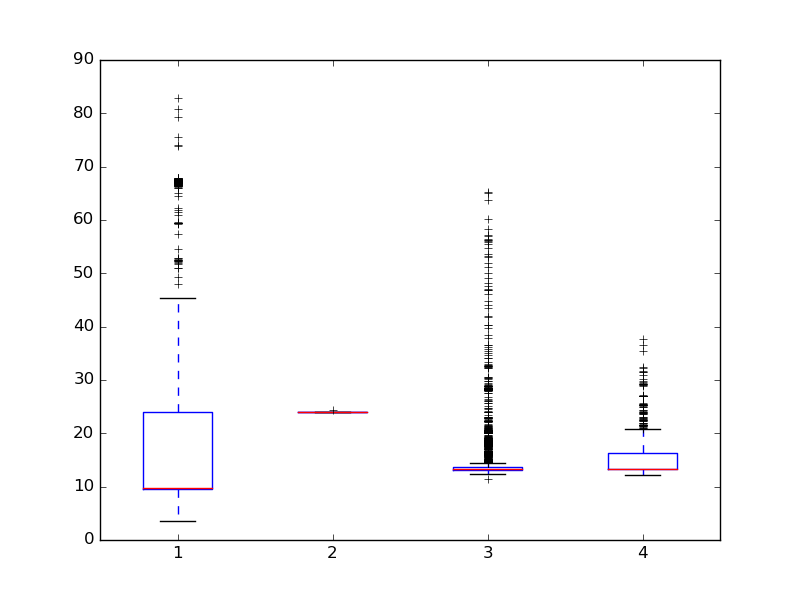
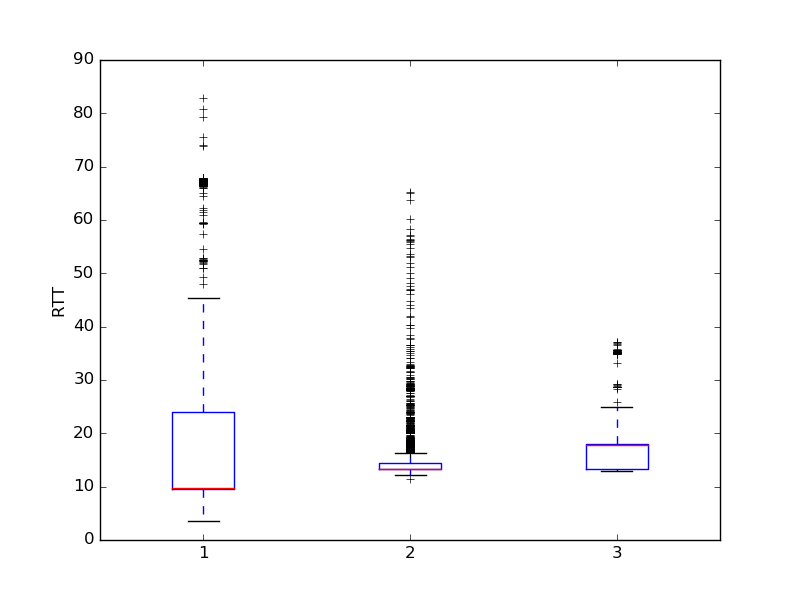
Bugfix

diff --git a/exercise2.py b/exercise2.py
@@ -21,7 +21,7 @@ timestamp_data = []
 sections = []
 boxplot_data = []
 timestamp = 0
-c = 500000                      #Minimaler Abstand zweier Segmente
+c = 5000000                      #Minimaler Abstand zweier Segmente (ca. 2 Monate)
 i = 0
 
 timeframeLow = args.low         #Zeitfenster, das betrachtet werden soll
@@ -45,11 +45,14 @@ for line in f:
             ping_data.append(float(m[0]))
             i += 1
 
-for s in range(1, len(sections)):                               # Daten fuer Boxplots aus Segmenten kopieren
-    if s > len(sections):
+
+# Daten fuer Boxplots aus Segmenten kopieren
+for s in range(0, len(sections)):
+    if s >= len(sections)-1:
         boxplot_data.append(ping_data[sections[s]:])
     else:
-        boxplot_data.append(ping_data[sections[s-1]:sections[s]])
+        boxplot_data.append(ping_data[sections[s]:sections[s+1]])
+
 
 print "Minimum: ", min(ping_data)
 print "Maximum: ", max(ping_data)
@@ -60,9 +63,11 @@ print "Sections:",
 for s in sections:
     print timestamp_data[s],
 
-plt.plot(timestamp_data, ping_data, 'x')
+plt.plot(timestamp_data, ping_data, '.')
 plt.xlabel("Time")
 plt.ylabel("RTT")
+for s in sections:
+    plt.axvline(timestamp_data[s], color='r', linestyle='--')
 plt.savefig("timestamp_data.png")
 plt.close()
 
